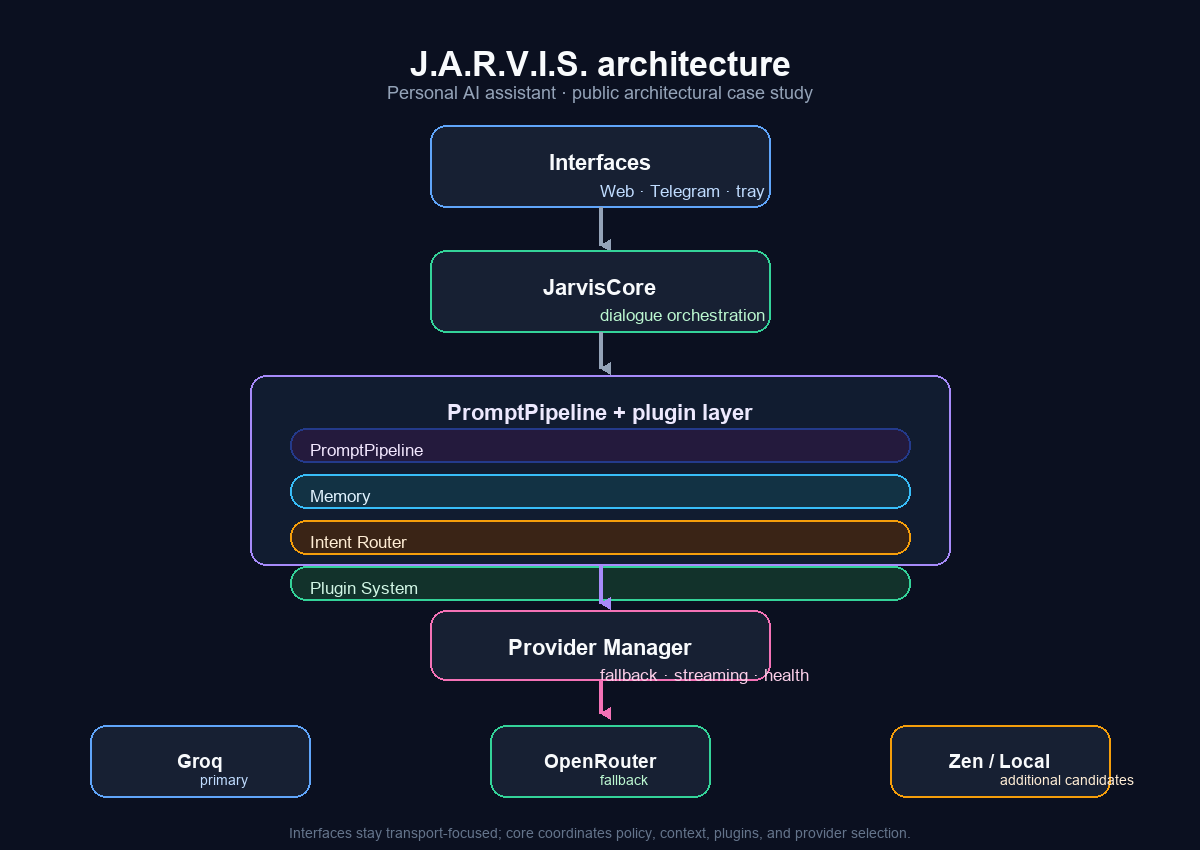
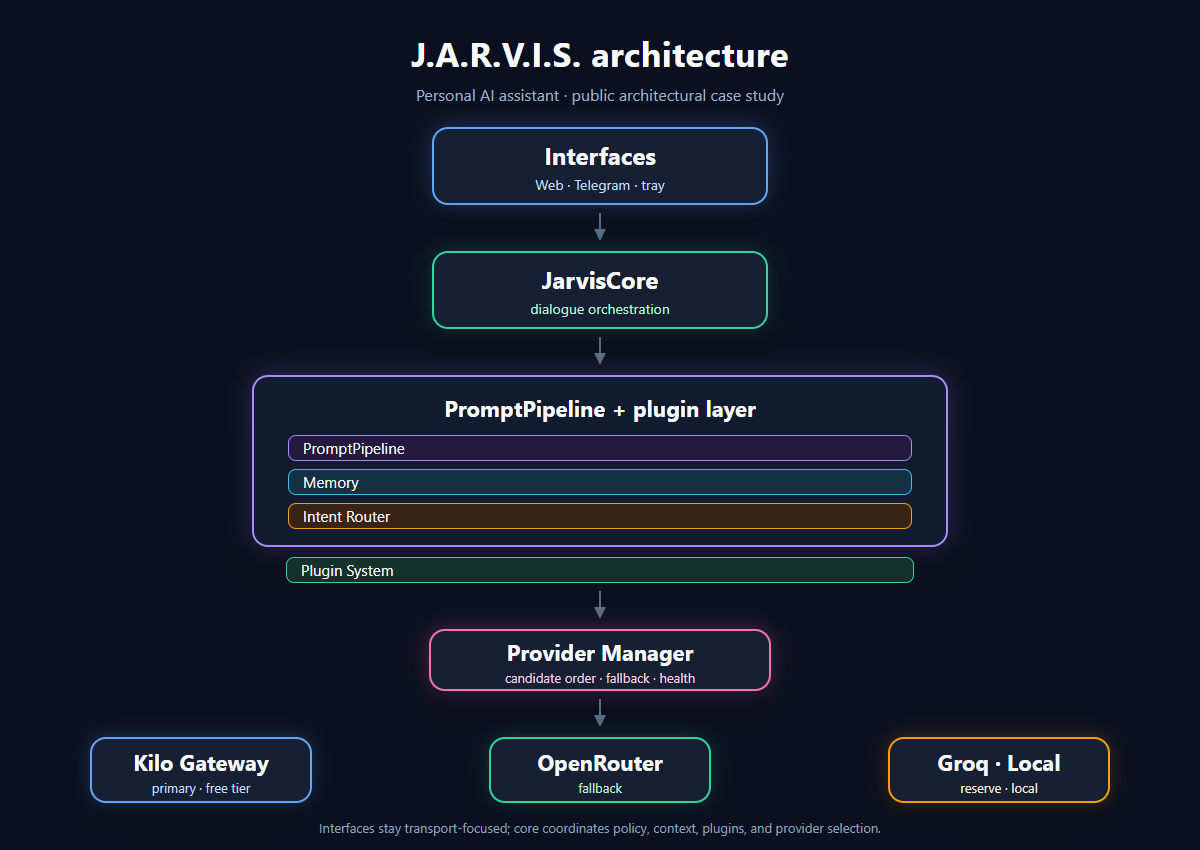
Обновление под реалии октября 2026 + скриншоты интерфейса
- README: актуальные провайдеры (Kilo Gateway), возможности (навыки,
  планировщик, карта возможностей), тесты и «доктор»; скриншоты
  веб-интерфейса в демонстрационных материалах
- docs/providers: текущая цепочка кандидатов и авто-откат агентного пути
- docs/plugin-system: владение подписками и фоновыми задачами, внешние мосты,
  автоматическая проверка контрактов
- docs/architecture: планировщик и карта возможностей в схеме, безопасность
- examples/config.example.env: актуальные DEFAULT/FALLBACK-провайдеры
- examples/plugin.example.md: русская версия контракта плагина
- assets: architecture.svg/png обновлены (Kilo Gateway вместо Zen); добавлены
  скриншоты веб-интерфейса web-chat.png и web-activity.png (сняты на чистой
  демо-сессии, без пользовательских данных)
- .gitignore и .gitattributes: защита от публикации приватных данных и единый
  стиль переводов строк (LF в индексе, без шума от CRLF в будущих правках)

diff --git a/README.md b/README.md
@@ -2,9 +2,9 @@
 
 **J.A.R.V.I.S.** (Just A Rather Very Intelligent System) — персональная AI-платформа и ассистент с несколькими интерфейсами, долговременной памятью, расширяемой плагинной системой и отказоустойчивым выбором модели.
 
-<img width="1920" height="1080" alt="Jarvis 3 5" src="https://github.com/user-attachments/assets/10377da4-b11b-4b2d-b2c3-8fea41e39633" />
-
 Это публичное описание проекта. В репозитории намеренно нет исходного кода, ключей, локальных путей, данных пользователей и рабочих конфигураций. Исходная система остаётся приватной; здесь показаны только принципы проектирования, потоки данных и демонстрационные материалы.
+
+*Актуально на 18.10.2026: ядро v3.7.2 · 7 плагинов · 1700+ автотестов.*
 
 ## Почему этот проект важен
 
@@ -15,23 +15,28 @@ J.A.R.V.I.S. — мой основной личный проект для пра
 | Область | Используется |
 |---|---|
 | Ядро | Python, FastAPI, Uvicorn, SQLite/FTS5 |
-| LLM | API, совместимые с OpenAI; Groq, OpenRouter, OpenCode Zen; опционально Gemini, DeepSeek, Kimi, Claude, локальный GGUF/Ollama и мост DeepSeek Web |
+| LLM | API, совместимые с OpenAI; Kilo Gateway (бесплатные модели, основной с 16.10.2026), Groq, OpenRouter; опционально Gemini, DeepSeek, Kimi, Claude, локальный GGUF/Ollama |
 | Интерфейсы | React, WebSocket, Telegram / aiogram, трей Windows |
 | Архитектура | Абстракция провайдера, система плагинов, шина событий, долговременная память, агентный цикл |
-| Тестирование | pytest, pytest-asyncio, smoke-тесты, регрессионные тесты WebSocket, E2E-тесты Playwright |
+| Тестирование | pytest, pytest-asyncio (1700+ юнит-тестов), smoke-тесты, регрессионные тесты WebSocket, E2E-тесты Playwright, самопроверка ходов (инварианты + LLM-судья) и «доктор» плагинов |
 | Инфраструктура | Windows (основная), кроссплатформенные пути выполнения |
 
 ## Что умеет J.A.R.V.I.S.
 
 - **Несколько интерфейсов**: веб-приложение с потоковой передачей ответа и Telegram-бот.
 - **Поставщики LLM**: единый контракт для разных поставщиков и моделей.
-- **Резервный провайдер**: последовательный переход к резервному провайдеру при недоступности, лимите или ошибке.
+- **Отказоустойчивость провайдеров**: cooldown, контрольный таймаут первого чанка и авто-откат агентного пути — отказ до первого чанка уводит ход на живой резерв с инструментами и показывает честную плашку; после начала ответа модели не смешиваются.
 - **Потоковая передача**: построчная передача ответа и понятное состояние соединения.
 - **Долгосрочная память**: локальное SQLite-хранилище, извлечение фактов, профиль пользователя и поиск по воспоминаниям.
+- **Навыки**: процедурная память — удачные приёмы сохраняются и продвигаются по счётчику применений; доверие навыку подтверждается вручную.
+- **Напоминания**: планировщик на естественном языке («через 10 минут», «завтра в 9:00») с дедупликацией, snooze и сводкой пропущенных.
+- **Голос**: синтез речи и локальное распознавание с цепочкой движков и управляемым фолбэком.
 - **Система плагинов**: подключаемые модули, события, инструменты и жизненный цикл через манифесты.
+- **Карта возможностей**: честный реестр «что умею» — инструменты и команды плагинов объявлены и запрещены по умолчанию, пока не разрешены явно.
 - **Маршрутизация намерений**: определение потребности в актуальном веб-поиске до сборки основного запроса.
 - **Поиск в вебе**: получение контекста, его фильтрация и передача модели вместе с источниками.
-- **Слой безопасности**: разделение внешних данных и инструкций, фильтрация инъекций, минимизация раскрытия контекста.
+- **Слой безопасности**: разделение внешних данных и инструкций, фильтрация инъекций, карта возможностей плагинов (fail-closed), подтверждение опасных действий карточкой в интерфейсе, песочница команд и аудит.
+- **Проверка результата**: после команд агент сверяет реальный эффект (файл, порт, процесс), а не только код возврата.
 - **Операционная наблюдаемость**: состояние провайдеров, квоты, состояние модулей и журналы работы.
 
 ## Архитектура
@@ -48,9 +53,13 @@ flowchart LR
   E --> M[Плагин памяти]
   E --> K[Плагин навыков]
   E --> V[Плагин голоса]
+  E --> R[Плагин планировщика]
+  E --> G[Карта возможностей]
   S -->|отфильтрованный контекст| P
   M -->|профиль + воспоминания| P
   K -->|активированные навыки| P
+  R -->|напоминания| C
+  G -->|реестр инструментов| AL
   P --> PM[Менеджер провайдеров]
   PM -->|обычный поток| LP[LLM-провайдеры]
   PM -->|провайдер с инструментами| AL[Агентный цикл]
@@ -77,7 +86,7 @@ flowchart LR
 
 ## Разработка с участием ИИ
 
-Проект активно разрабатывается с использованием ИИ-инструментов. CLI агенты и другие LLM-инструменты используются для исследования решений, декомпозиции задач, генерации и анализа кода, написания тестов и рефакторинга. Архитектурные решения, интеграция, проверка результатов и финальная валидация остаются ответственностью разработчика.
+Проект активно разрабатывается с использованием ИИ-инструментов. Claude Code и другие LLM используются для исследования решений, декомпозиции задач, генерации и анализа кода, написания тестов и рефакторинга. Архитектурные решения, интеграция, проверка результатов и финальная валидация остаются ответственностью разработчика.
 
 ## Почему архитектура такая
 
@@ -90,6 +99,8 @@ flowchart LR
 ## Что было сложно
 
 - **Потоковая передача + резервный провайдер**: нужно было не переключать поставщика после начала ответа, чтобы не смешивать части одного сообщения.
+- **Авто-откат на агентном пути**: переключение живёт только до первого чанка; резерв обязан уметь инструменты, иначе ход «подешевеет» молча; пользователю показывается честная плашка о работе через резерв.
+- **Ротация бесплатных каталогов моделей**: идентификаторы умирают молча (401/404/429) — систему приходится отличать «мёртвый путь» от временного лимита: лимит лечится ожиданием, а не сменой модели.
 - **Абстракция провайдера**: разные API имеют разные форматы ошибок, потоковой передачи и квот, но должны выглядеть для ядра единообразно.
 - **Безопасность памяти**: внешние и диалоговые данные нельзя передавать модели как доверенные инструкции; нужны фильтрация, приоритеты и аудит.
 - **Маршрутизация намерений**: поиск должен запускаться по смыслу запроса, а не по списку запрещённых или обязательных слов.
@@ -100,12 +111,14 @@ flowchart LR
 
 | Материал | Что показывает |
 |---|---|
+| [web-chat.png](assets/web-chat.png) | Скриншот веб-интерфейса: диалог с ассистентом и панель контекста |
+| [web-activity.png](assets/web-activity.png) | Скриншот веб-интерфейса: вкладка «Активность» — модули и монитор системы |
 | [architecture.svg](assets/architecture.svg) | Слоистая архитектура и поток запроса |
 | [web.svg](assets/web.svg) | Схематичный интерфейс веб-приложения |
 | [telegram.svg](assets/telegram.svg) | Сценарий общения через Telegram |
 | [memory.svg](assets/memory.svg) | Извлечение, хранение и использование памяти |
 
-Изображения являются архитектурными мокапами и не содержат реальные данные или экраны приватной системы.
+Схемы являются архитектурными мокапами. Скриншоты сняты на специально созданной демонстрационной сессии: в них нет реальных чатов, ключей и пользовательских данных.
 
 ## Конфиденциальность
 
@@ -130,6 +143,8 @@ JARVIS-Case-Study/
 │   ├── memory.md
 │   └── plugin-system.md
 ├── assets/
+│   ├── web-chat.png
+│   ├── web-activity.png
 │   ├── architecture.svg
 │   ├── web.svg
 │   ├── telegram.svg
@@ -138,4 +153,3 @@ JARVIS-Case-Study/
     ├── config.example.env
     └── plugin.example.md
 ```
-

diff --git a/examples/plugin.example.md b/examples/plugin.example.md
@@ -1,27 +1,27 @@
-# Example plugin contract
+# Контракт плагина
 
-This example describes the public contract for an optional J.A.R.V.I.S. plugin. It is documentation, not deployable source code.
+Этот пример описывает публичный контракт дополнительного плагина J.A.R.V.I.S. Это документация, а не исходный код, который можно развёрнуть.
 
-## Manifest fields
+## Поля манифеста
 
-| Field | Purpose |
+| Поле | Назначение |
 |---|---|
-| `name` | Stable plugin identifier |
-| `version` | Plugin version |
-| `description` | Short public description |
-| `entry_point` | Module and class loaded by the plugin system |
-| `requires` | Optional runtime dependencies |
-| `config` | Default values overridden by private configuration |
-| `auto_enable` | Whether the plugin starts enabled |
+| `name` | Стабильный идентификатор плагина |
+| `version` | Версия плагина |
+| `description` | Краткое публичное описание |
+| `entry_point` | Модуль и класс, которые загружает система плагинов |
+| `requires` | Метаданные зависимостей; загрузчик не устанавливает и не проверяет их автоматически |
+| `config` | Значения по умолчанию, которые могут быть переопределены приватной конфигурацией |
+| `auto_enable` | Запускается ли плагин уже включённым |
 
-Example manifest shape:
+Пример структуры манифеста:
 
 ```json
 {
   "name": "example",
   "version": "1.0.0",
-  "description": "Demonstration plugin with a bounded tool",
-  "author": "JARVIS Team",
+  "description": "Демонстрационный плагин с ограниченным инструментом",
+  "author": "Команда JARVIS",
   "requires": [],
   "auto_enable": false,
   "config": {
@@ -31,48 +31,48 @@ Example manifest shape:
 }
 ```
 
-## Lifecycle
+## Жизненный цикл
 
-1. **Discover**: the loader finds the manifest and records its path.
-2. **Load**: the declared class is imported and receives the core reference.
-3. **Initialize**: dependencies and subscriptions are prepared.
-4. **Enable**: the plugin moves from disabled to ready.
-5. **Run**: the core calls commands or tools according to user intent.
-6. **Disable/Unload**: subscriptions are removed and resources are closed.
+1. **Обнаружение**: загрузчик находит манифест и фиксирует его путь.
+2. **Загрузка**: объявленный класс импортируется и получает ссылку на ядро.
+3. **Инициализация**: подготавливаются зависимости и подписки.
+4. **Включение**: плагин переходит из `disabled` в `ready`.
+5. **Выполнение**: ядро вызывает команды или инструменты в соответствии с намерением пользователя.
+6. **Отключение/выгрузка**: подписки удаляются, ресурсы закрываются.
 
-## Event hooks
+## Хуки событий
 
-A plugin may react to a message event and add context during prompt construction. The event payload should be treated as untrusted data. Return quickly from synchronous hooks; delegate slow work to an asynchronous task.
+Плагин может реагировать на событие сообщения и добавлять контекст во время сборки промпта. payload события следует считать недоверенными данными. Синхронные хуки должны возвращаться быстро; медленную работу лучше переносить в асинхронную задачу.
 
-Example event behavior:
+Пример поведения события:
 
 ```text
 MESSAGE_RECEIVED
-  → validate input
-  → perform bounded preparation
-  → publish a non-fatal result
+  → проверить ввод
+  → выполнить ограниченную подготовку
+  → опубликовать необрывающий результат
 
 PROMPT_BUILDING
-  → add sanitized context with priority 10
-  → keep system policy above plugin context
+  → добавить отфильтрованный контекст с приоритетом 10
+  → оставить системную политику выше контекста плагина
 ```
 
-## Tool contract
+## Контракт инструмента
 
-A tool exposes:
+Инструмент предоставляет:
 
-- a stable name;
-- a human-readable description;
-- a JSON schema for arguments;
-- a normalized string or structured result;
-- explicit error handling.
+- стабильное имя;
+- понятное человеку описание;
+- JSON-схему аргументов;
+- нормализованную строку или структурированный результат;
+- явную обработку ошибок.
 
-The core validates arguments before execution. A plugin must not execute arbitrary shell commands or access files outside its declared permission boundary.
+Ядро проверяет аргументы до выполнения. Плагин не должен выполнять произвольные shell-команды или обращаться к файлам за пределами объявленной области разрешений.
 
-## Privacy checklist
+## Чек-лист приватности
 
-- Do not log tokens, keys, raw private messages, or user identifiers.
-- Store only the minimum data required for the capability.
-- Sanitize external content before prompt injection.
-- Document retention and deletion behavior.
-- Make optional failures non-fatal to the main conversation.
+- Не логировать токены, ключи, сырые приватные сообщения или идентификаторы пользователей.
+- Хранить только минимальные данные, необходимые для возможности.
+- Очищать внешний контент до инъекции в промпт.
+- Описать поведение хранения и удаления данных.
+- Сделать необязательные сбои необрывающими для основного диалога.

diff --git a/docs/architecture.md b/docs/architecture.md
@@ -18,9 +18,13 @@ flowchart LR
   EB --> M[Плагин памяти]
   EB --> K[Плагин навыков]
   EB --> V[Плагин голоса]
+  EB --> R[Плагин планировщика]
+  EB --> G[Карта возможностей]
   S -->|отфильтрованный контекст| P
   M -->|профиль + воспоминания| P
   K -->|активированные навыки| P
+  R -->|напоминания| C
+  G -->|реестр инструментов| AL
   P --> PM[Менеджер провайдеров]
   PM --> LP[AI-провайдеры]
   LP -->|текст или вызовы инструментов| AL[Агентный цикл]
@@ -48,8 +52,10 @@ flowchart LR
 | Агентный цикл | Цикл вызова инструментов, повторные витки до лимита и нормализация результатов |
 | Плагин памяти | Извлечение фактов, SQLite/FTS5, профиль, поиск, суммаризация и фильтры безопасности |
 | Плагин поиска | Классификация намерения, DuckDuckGo, кэширование, санитизация и инжекция контекста |
-| Плагин навыков | Извлечение процедурного опыта и предоставление проверенных навыков агенту |
-| Плагин голоса | TTS и STT с несколькими провайдерами |
+| Плагин навыков | Извлечение процедурного опыта; продвижение по счётчику применений, подтверждение доверия — вручную |
+| Плагин голоса | TTS и STT с цепочкой движков, управляемым фолбэком и локальным распознаванием |
+| Плагин планировщика | Напоминания на естественном языке: дедупликация, snooze, сводка пропущенных при старте |
+| Карта возможностей | Реестр «что умею»: команды и инструменты плагинов для модели и интерфейса; неизвестное запрещено по умолчанию |
 | Система плагинов | Обнаружение, жизненный цикл, события, команды, инструменты и состояние модулей |
 | Шина событий | Синхронная и асинхронная коммуникация между компонентами |
 | Безопасность и автономия | Риски команд, подтверждение, песочница, аудит и уровни доверия |
@@ -86,6 +92,7 @@ flowchart LR
 - Отсутствие ключа или зависимости исключает кандидата из активной цепочки.
 - После ошибки провайдер переходит в cooldown, чтобы не отправлять каждый запрос на недоступный endpoint.
 - Резервный провайдер для потокового ответа возможен только до получения первого чанка; после начала ответа модель не смешивается.
+- Авто-откат агентного пути: отказ до первого чанка уводит ход на живой резерв, умеющий инструменты, и показывает плашку; исчерпание лимита не помечает провайдера мёртвым.
 - Ошибки поиска и памяти являются fail-open: основной ответ продолжается без них.
 - Ошибка отдельного опционального плагина не завершает основной диалог.
 - Полная недоступность всех провайдеров возвращается пользователю как краткая ошибка и сохраняется в истории.
@@ -103,6 +110,8 @@ flowchart LR
 - Политика автономии реализует уровни доверия `L0_ASK`, `L1_SUPERVISED`, `L2_TRUSTED_TOOL`, `L3_TRUSTED_PATTERN` и `L4_AUTONOMOUS`.
 - Доверенные шаблоны имеют TTL: по умолчанию 24 часа, значение `0` означает постоянное доверие.
 - Действия и результаты инструментов записываются в журнал аудита; истекшие правила помечаются как недействительные.
+- Частота вызовов инструментов ограничена бюджетом задачи и скользящим окном сессии.
+- Результаты команд проверяются на реальный эффект (файл, порт, процесс), а не только на код возврата.
 - Результаты инструментов проверяются перед инъекцией обратно в модель.
 - Публичная документация описывает возможности и контракты без публикации секретов реализации.
 

diff --git a/docs/plugin-system.md b/docs/plugin-system.md
@@ -32,14 +32,14 @@
 2. **Загрузка** — динамический импорт `entry_point`, создание экземпляра, подключение ссылки на ядро и вызов `on_load()`.
 3. **Включение** — вызов `initialize()`; при успехе плагин получает статус `ready`, при ошибке — `error` и остаётся отключённым.
 4. **Выполнение** — выполнение команд или инструментов по запросу ядра.
-5. **Отключение** — перевод в состояние `disabled`.
+5. **Отключение** — перевод в состояние `disabled`; плагин снимает свои подписки и отменяет фоновые задачи (они принадлежат плагину, а не ядру).
 6. **Выгрузка** — вызов `on_unload()`, удаление подписок и освобождение ресурсов.
 
-Повторная загрузка выполняется через `unload` + `load`. Отдельный сбой плагина не должен останавливать загрузку остальных модулей.
+Повторная загрузка выполняется через `unload` + `load`. Отдельный сбой плагина не должен останавливать загрузку остальных модулей. Повторное включение идемпотентно: повторная подписка того же обработчика не создаёт дубли, а накопленные подписки снимаются.
 
 ## События
 
-`EventBus` поддерживает синхронные и асинхронные обработчики. Плагин может подписаться через `subscribe_event` или `subscribe_event_async`; подписки автоматически отслеживаются и удаляются при выгрузке.
+`EventBus` поддерживает синхронные и асинхронные обработчики. Плагин может подписаться через `subscribe_event` или `subscribe_event_async`; подписки автоматически отслеживаются и снимаются при отключении и выгрузке.
 
 В текущем приложении используются следующие события:
 
@@ -72,9 +72,9 @@
 
 Метод `BaseModule.on_message(message, history)` является хуком на уровне кода. Если готовый плагин возвращает из него непустую строку, ядро записывает её как ответ ассистента и пропускает обращение к LLM-провайдеру. В манифесте нет поля `override_response`: поведение включается реализацией метода в коде. Встроенные плагины этот хук не используют.
 
-## MCP bridge
+## Внешние мосты
 
-`mcp/deepseek_bridge.py` — отдельный адаптер провайдера и MCP-сервис, а не плагин. Он не имеет `plugin.json`, не проходит через `PluginLoader` и не подписывается на события плагинов. Его роль — предоставлять совместимую с DeepSeek HTTP/MCP конечную точку для вызовов и статуса.
+В текущей поставке MCP-мосты не используются: внешние сервисы подключаются как отдельные адаптеры провайдеров через общий контракт (см. [Провайдеры](providers.md)), а плагины не получают извне произвольный shell-доступ — все действия проходят общие ворота безопасности.
 
 ## Состояние и наблюдаемость
 
@@ -86,6 +86,8 @@
 - `error`.
 
 Интерфейс может показывать состояние модулей без раскрытия внутренних логов. Ошибки опциональных плагинов по умолчанию считаются необрывающими для основного диалога; ядро продолжает работу с тем контекстом, который удалось собрать.
+
+Контракты плагинов регулярно проверяются автоматической read-only проверкой: соответствие манифеста и `entry_point`, объявление команд и инструментов в карте возможностей (незадекларированный инструмент молча недоступен — это ловится), дубли подписок и неиспользуемые ключи конфигурации.
 
 ## Чек-лист расширения
 

diff --git a/docs/providers.md b/docs/providers.md
@@ -14,19 +14,17 @@
 
 ## Конфигурация и цепочка кандидатов
 
-Порядок провайдеров задаётся через `DEFAULT_PROVIDER`, `DEFAULT_MODEL` и `FALLBACK_PROVIDERS`. Значение `DEFAULT_PROVIDER` имеет вид `provider/model`, например `groq/openai/gpt-oss-120b`.
+Порядок провайдеров задаётся через `DEFAULT_PROVIDER`, `DEFAULT_MODEL` и `FALLBACK_PROVIDERS`. Значение `DEFAULT_PROVIDER` имеет вид `provider/model`, например `kilo/dots-studio/dots-3-note-preview:free`.
 
-Типовая цепочка по умолчанию:
+Типовая цепочка по умолчанию (октябрь 2026):
 
 ```text
-groq/openai/gpt-oss-120b
+kilo/dots-studio/dots-3-note-preview:free
+  → kilo/nvidia/nemotron-3.5-super-vl:free
   → openrouter
-  → zen-nemotron-3-ultra-free
-  → zen-x-preview-f-free
-  → zen-mimo-v2.5-free
 ```
 
-`openrouter` и `zen-*` используют совместимые с OpenAI конечные точки, но остаются отдельными кандидатами. Дополнительные интеграции можно включить конфигурацией: Gemini, DeepSeek, Kimi, Claude, локальный GGUF/Ollama и мост DeepSeek Web. Если ключ, зависимость или модель недоступны, кандидат пропускается; если ни один кандидат не подходит, запуск завершается ошибкой.
+Основной канал — шлюз Kilo Gateway: бесплатные модели без ключа. Каталог шлюза периодически ротируется, поэтому мёртвые идентификаторы убираются после живой проверки. Остальные кандидаты используют совместимые с OpenAI конечные точки. Дополнительные интеграции можно включить конфигурацией: Gemini, DeepSeek, Kimi, Claude, локальный GGUF/Ollama. Если ключ, зависимость или модель недоступны, кандидат пропускается; если ни один кандидат не подходит, запуск завершается ошибкой.
 
 ## Инициализация и состояние провайдера
 
@@ -41,6 +39,8 @@ groq/openai/gpt-oss-120b
 У потокового запроса есть контрольный таймаут первого чанка. Если провайдер не прислал первый чанк за `FIRST_CHUNK_TIMEOUT` (по умолчанию 30 секунд), он считается недоступным и следующий кандидат получает шанс ответить.
 
 После того как первый полезный чанк уже передан клиенту, провайдер для этого сообщения фиксируется. Ошибка на последующих чанках не приводит к молчаливому переключению: ответ завершается ошибкой, чтобы части одного ответа не оказались собраны из разных моделей.
+
+Отдельный сценарий — агентный путь. Если провайдер отказал до первого чанка, ход автоматически переходит на живой резерв из семейств, поддерживающих инструменты (переключение на модель без инструментов молча сняло бы их), а пользователь видит плашку «Резерв». Исчерпание лимита запросов не помечает провайдера мёртвым: лимит лечится ожиданием, а не сменой модели. Если ни один резерв не ответил, ход завершается понятной ошибкой.
 
 Чанки нормализуются до единого формата, содержащего текст ответа и, если поставщик его предоставляет, поле `reasoning`. Пустой поток рассматривается как неудачная попытка и может быть заменён следующим кандидатом.
 
